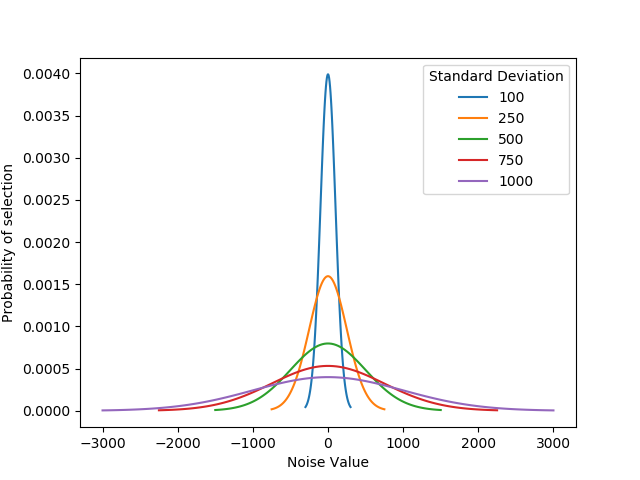
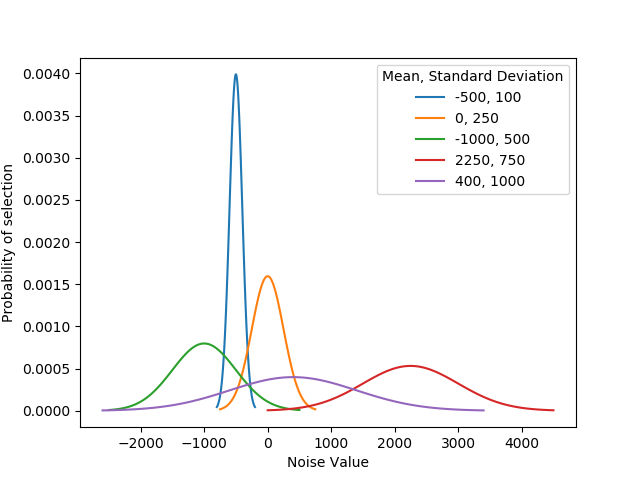
updated normal distribution plot

diff --git a/learn/Q8_noise.py b/learn/Q8_noise.py
@@ -96,19 +96,18 @@ import matplotlib.pyplot as plt
 import numpy as np
 import matplotlib.mlab as mlab
 
-means = [0.0]
+means = [-500, 0.0, -1000, 2250, 400]
 stds = [100, 250, 500, 750, 1000]
 
-for mean in means:
-    for std in stds:
-        sigma = std
-        x = np.linspace(mean - 3*sigma, mean + 3*sigma, 100)
-        plt.plot(x,mlab.normpdf(x, mean, sigma), label=str(std))
-        plt.show()
+for mean, std in zip(means, stds):
+    sigma = std
+    x = np.linspace(mean - 3*sigma, mean + 3*sigma, 100)
+    plt.plot(x,mlab.normpdf(x, mean, sigma), label="%d, %d"%(mean, std))
+    plt.show()
 
 plt.xlabel("Noise Value")
 plt.ylabel("Probability of selection")
-plt.legend(title="Standard Deviation")
+plt.legend(title="Mean, Standard Deviation")
 
 
 #%%
